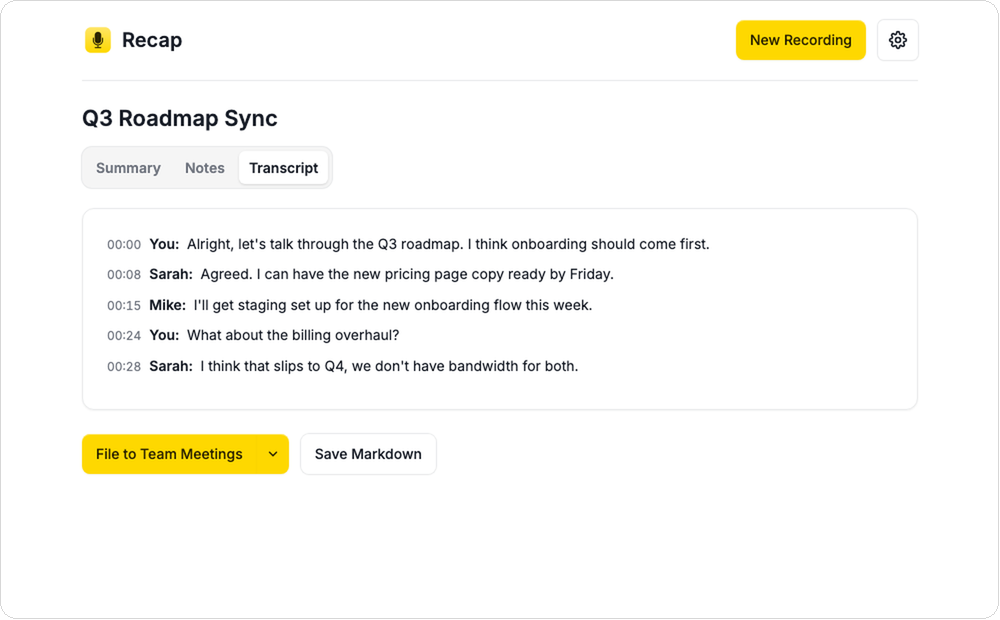
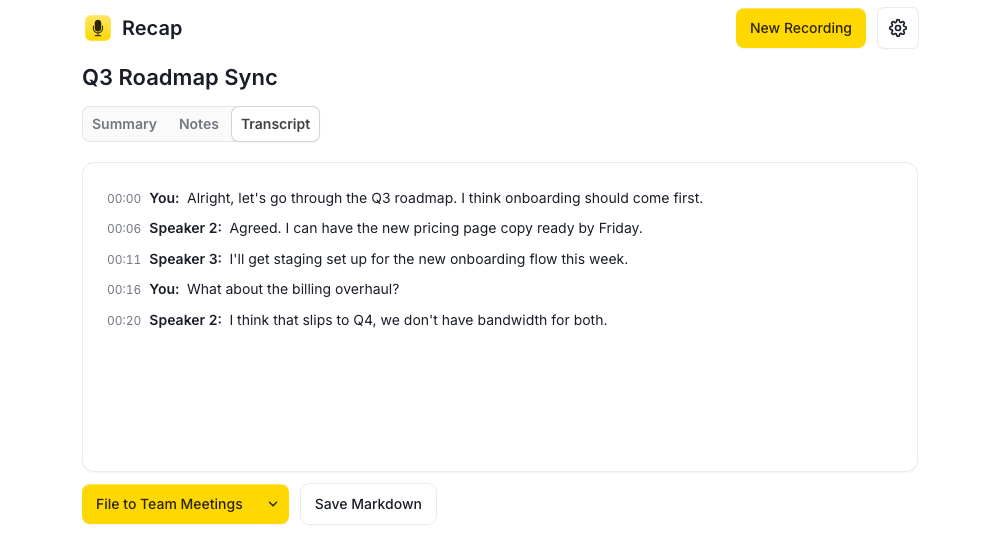
Rewrite the README and refresh every screenshot
Full pass to catch up with everything shipped since the last real
README update: the menu bar icon and background behavior, meeting
detection, the redesigned Settings sidebar, the transcription-ready
notification, and window position memory. Also removes the
~/Applications framing from the intro and Run section now that
Download lets people put the app wherever they want, and adds a
Feedback section pointing at GitHub issues for bugs and feature
requests.

New screenshots for all of it: Summary, Transcript, the recording
screen, and Settings' General tab. Generated by seeding the app's own
real rendering code with made-up meeting content through a headless
Chrome capture against the actual frontend, not mocked-up markup, so
every pixel is genuine app output. Speaker labels are left as
"Speaker 2"/"Speaker 3" rather than real names: the previous
transcript screenshot showed real names there, which the app has
never actually been able to produce (diarization only ever assigns
generic labels; real names only ever appear in the Claude-generated
summary and notes, never the transcript itself). Also removed every
em dash from the document, per a new standing preference.

diff --git a/README.md b/README.md
@@ -2,28 +2,37 @@
 
 I got tired of meeting-notes apps that want a monthly subscription just to
 ship my audio off to someone else's server. So this is the one I actually
-use: it's a real Mac app that lives in `~/Applications`, records your mic
-(and the other side of the call, if you want), transcribes everything
-on-device, and only sends the resulting text — never audio — up to Claude
-for the summary. Everything else stays on your laptop.
+use: a real Mac app that records your mic (and the other side of the call,
+if you want), transcribes everything on-device, and only sends the
+resulting text, never audio, up to Claude for the summary. Everything else
+stays on your laptop.
 
 When it's done, it can file the whole thing straight into Notion, formatted
-the way a real page should look — action items as checkboxes, real headings,
-a collapsible transcript — or just drop a Markdown file on your Desktop if
+the way a real page should look: action items as checkboxes, real headings,
+a collapsible transcript. Or just drop a Markdown file on your Desktop if
 you'd rather skip Notion entirely.
+
+Recap can also stay running quietly in your menu bar, and it can notice
+when you've joined a call in another app and offer to start recording for
+you.
 
 ![Summary view](assets/screenshot-summary.png)
 ![Transcript view with speaker labels](assets/screenshot-transcript.png)
+![The recording screen](assets/screenshot-recording.png)
+![Settings, General tab](assets/screenshot-settings.png)
 
-(Screenshots use placeholder content, not real meeting data — I'm not
-putting an actual meeting of mine in a public README.)
+(Screenshots use a made-up meeting, not a real one of mine. The speaker
+labels ("Speaker 2", "Speaker 3") are what the app actually produces on its
+own. Real names only show up in the summary and notes, and only when
+someone's real name genuinely gets said in the recording; see
+[Speaker labels](#speaker-labels) below.)
 
 ## Download
 
 The easiest way to get Recap: no Python, no Homebrew, no terminal.
 
-1. Grab `Recap.app.zip` from the [latest release](https://github.com/markbenivegna/recap/releases/latest), unzip it, and drag `Recap.app` into `~/Applications` (or wherever you keep apps).
-2. Right-click (or Control-click) it in Finder and choose **Open** once. Recap isn't notarized — that costs an Apple Developer account, and this is a free tool with no interest in that relationship with Apple — so macOS shows the normal "unidentified developer" warning any downloaded, non-App-Store app gets. That's the standard one-time step every Mac user has always dealt with, not a sign anything's wrong.
+1. Grab `Recap.app.zip` from the [latest release](https://github.com/markbenivegna/recap/releases/latest), unzip it, and put `Recap.app` wherever you keep apps.
+2. Right-click (or Control-click) it in Finder and choose **Open** once. Recap isn't notarized (that costs an Apple Developer account, and this is a free tool with no interest in that relationship with Apple), so macOS shows the normal "unidentified developer" warning any downloaded, non-App-Store app gets. That's the standard one-time step every Mac user has always dealt with, not a sign anything's wrong.
 3. Open it. See [Configure API keys](#configure-api-keys) below for what happens next.
 
 Prefer to build it yourself, or want to contribute? See [Build from source](#build-from-source).
@@ -32,27 +41,28 @@ Prefer to build it yourself, or want to contribute? See [Build from source](#bui
 
 However you got Recap, you'll need two keys:
 
-- **`ANTHROPIC_API_KEY`** — go to [console.anthropic.com](https://console.anthropic.com), sign in (this is a separate pay-as-you-go account from a claude.ai subscription), open **API Keys** in the left sidebar, click **Create Key**, and copy it. A typical meeting (transcription + summarization) costs a few cents.
-- **`NOTION_API_KEY`** — go to [notion.so/my-integrations](https://www.notion.so/my-integrations), click **New integration**, give it any name (e.g. "Recap"), and create it. Copy the **Internal Integration Secret** it shows you.
-  - **Then, separately**, in Notion itself: open every page or database you want to be able to file meeting notes into, click the **`...`** menu in the top right, go to **Connections**, and connect your new integration. Repeat for each page — pages not explicitly connected this way will never show up in the app's dropdown, even though the API key itself is valid.
+- **`ANTHROPIC_API_KEY`**: go to [console.anthropic.com](https://console.anthropic.com), sign in (this is a separate pay-as-you-go account from a claude.ai subscription), open **API Keys** in the left sidebar, click **Create Key**, and copy it. A typical meeting (transcription + summarization) costs a few cents.
+- **`NOTION_API_KEY`**: go to [notion.so/my-integrations](https://www.notion.so/my-integrations), click **New integration**, give it any name (e.g. "Recap"), and create it. Copy the **Internal Integration Secret** it shows you.
+  - **Then, separately**, in Notion itself: open every page or database you want to be able to file meeting notes into, click the **`...`** menu in the top right, go to **Connections**, and connect your new integration. Repeat for each page. Pages not explicitly connected this way will never show up in the app's dropdown, even though the API key itself is valid.
 
-The first time Recap opens with no key set, it automatically opens **Settings** (the ⚙ icon) for you to paste both keys in — no text editor, no `.env` required. You can also open Settings any time later to change them, the Whisper model size, vocabulary hints, or the system-audio output device.
+The first time Recap opens with no key set, it automatically opens **Settings** (the ⚙ icon) for you to paste both keys in. No text editor, no `.env` required. You can also open Settings any time later to change them, or anything else.
 
-Prefer editing a file directly instead? Recap keeps its own data — API keys, the downloaded diarization model, usage tracking — in `~/Library/Application Support/Recap/` (the standard macOS location for this, independent of wherever the app itself lives). Copy `.env.example` from this repo to `~/Library/Application Support/Recap/.env` and fill it in the same way — see the comments in `.env.example` for every available option, including `DIARIZATION_THRESHOLD` (not exposed in the Settings UI since it rarely needs changing).
+Prefer editing a file directly instead? Recap keeps its own data (API keys, the downloaded diarization model, usage tracking, window position) in `~/Library/Application Support/Recap/`, the standard macOS location for this, independent of wherever the app itself lives. Copy `.env.example` from this repo to `~/Library/Application Support/Recap/.env` and fill it in the same way; see the comments in `.env.example` for every available option, including `DIARIZATION_THRESHOLD` (not exposed in the Settings UI since it rarely needs changing).
 
 ### First launch
 
-- Clicking **Record** for the first time triggers a normal macOS microphone-permission prompt — click **Allow**.
-- The very first recording you transcribe will trigger a one-time download of the `faster-whisper` model (a few hundred MB for the default `small` size) and the speaker-diarization model (`speechbrain/spkrec-ecapa-voxceleb`, downloaded to `~/Library/Application Support/Recap/.cache/`) — expect that first transcription to take noticeably longer than later ones while those download. Everything after that runs fully offline.
+- Clicking **Record** for the first time triggers a normal macOS microphone-permission prompt. Click **Allow**.
+- The very first recording you transcribe will trigger a one-time download of the `faster-whisper` model (a few hundred MB for the default `small` size) and the speaker-diarization model (`speechbrain/spkrec-ecapa-voxceleb`, downloaded to `~/Library/Application Support/Recap/.cache/`). Expect that first transcription to take noticeably longer than later ones while those download. Everything after that runs fully offline.
+- You may also see a one-time system prompt asking whether Recap can send you notifications. Click **Allow** if you want the "meeting detected" and "your notes are ready" notifications described below; both features still work without it, you'll just miss the heads-up.
 
 ## Build from source
 
-For development or contributing — if you just want to use Recap, [Download](#download) above is much less work.
+For development or contributing. If you just want to use Recap, [Download](#download) above is much less work.
 
 ### 0. Prerequisites
 
-- **macOS**, Apple Silicon (arm64) — the build embeds an arm64-only Python runtime inside the app.
-- **Python 3.9+** — macOS ships one at `/usr/bin/python3`, or install one via [Homebrew](https://brew.sh) (`brew install python3`).
+- **macOS**, Apple Silicon (arm64). The build embeds an arm64-only Python runtime inside the app.
+- **Python 3.9+**: macOS ships one at `/usr/bin/python3`, or install one via [Homebrew](https://brew.sh) (`brew install python3`).
 - **[Homebrew](https://brew.sh)**, for the required system dependencies below.
 - **ffmpeg**, used to decode recorded audio before diarization:
   ```bash
@@ -74,7 +84,7 @@ pip install -r requirements.txt
 
 ### 2. Configure API keys
 
-See [Configure API keys](#configure-api-keys) above — same either way.
+See [Configure API keys](#configure-api-keys) above, same either way.
 
 ### 3. Build the app
 
@@ -82,22 +92,22 @@ See [Configure API keys](#configure-api-keys) above — same either way.
 ./scripts/build_app.sh
 ```
 
-This creates **Recap.app** in `~/Applications` with a custom icon — a one-time step that takes a minute or two, and a thin launcher that runs against this checkout's own venv (fast to rebuild, but only works on this machine). Open it from Finder or Launchpad from here on; no terminal needed after this point.
+This creates **Recap.app** in `~/Applications` with a custom icon, a one-time step that takes a minute or two, and a thin launcher that runs against this checkout's own venv (fast to rebuild, but only works on this machine). Open it from Finder or Launchpad from here on; no terminal needed after this point.
 
 ### 4. First launch
 
-Same as [First launch](#first-launch) above, plus the Gatekeeper step from [Download](#download) — `build_app.sh`'s output isn't code-signed either.
+Same as [First launch](#first-launch) above, plus the Gatekeeper step from [Download](#download): `build_app.sh`'s output isn't code-signed either.
 
 ### Cutting a real release (maintainers)
 
-`build_app.sh` above is a dev convenience — its output only runs on the machine it was built on (it points at that checkout's own venv, not a bundled copy of everything). A real, standalone, downloadable `Recap.app` — the one [Download](#download) points at — is built differently, via `scripts/recap.spec` (PyInstaller), and published automatically by [`.github/workflows/release.yml`](.github/workflows/release.yml) whenever a version tag is pushed:
+`build_app.sh` above is a dev convenience: its output only runs on the machine it was built on (it points at that checkout's own venv, not a bundled copy of everything). A real, standalone, downloadable `Recap.app`, the one [Download](#download) points at, is built differently, via `scripts/recap.spec` (PyInstaller), and published automatically by [`.github/workflows/release.yml`](.github/workflows/release.yml) whenever a version tag is pushed:
 
 ```bash
 git tag v1.0.0
 git push origin v1.0.0
 ```
 
-That's the whole release process — GitHub Actions builds it on a real macOS runner and publishes the result. To test that build locally instead (needs `pyinstaller` and `dylibbundler`: `pip install -r requirements-build.txt` and `brew install dylibbundler`):
+That's the whole release process. GitHub Actions builds it on a real macOS runner and publishes the result. To test that build locally instead (needs `pyinstaller` and `dylibbundler`: `pip install -r requirements-build.txt` and `brew install dylibbundler`):
 
 ```bash
 pyinstaller scripts/recap.spec --noconfirm --distpath dist --workpath build
@@ -106,7 +116,7 @@ scripts/bundle_ffmpeg.sh dist/Recap.app
 
 ## Run
 
-The normal way, day to day: open **Recap** from `~/Applications` (or Launchpad) like any other app.
+The normal way, day to day: open **Recap** from wherever you put it, or from Launchpad/Spotlight, like any other app.
 
 For debugging, you can also run it directly from a terminal:
 
@@ -116,27 +126,42 @@ python3 main.py          # standalone window
 python3 -m backend.app   # or: plain web app at http://127.0.0.1:5151
 ```
 
-If you ever move the project folder, or want to regenerate the icon, re-run `./scripts/build_app.sh` to rebuild the app bundle.
+If you're building from source and ever move the project folder, or want to regenerate the icon, re-run `./scripts/build_app.sh` to rebuild the app bundle.
 
 ## Flow
 
 Nothing surprising here, which is the point:
 
-1. Click **Record** (grants mic access) or **Upload audio** for an existing file.
-2. Stop the recording — it's transcribed locally, then summarized via Claude.
+1. Click **Record** (grants mic access) or **Upload audio** for an existing file. If meeting detection noticed you joined a call in another app first, you can start recording straight from that notification instead.
+2. Stop the recording. It's transcribed locally, then summarized via Claude. If Recap's window isn't in front when this finishes, you'll get a notification.
 3. Read the result across the **Summary**, **Notes**, and **Transcript** tabs.
-4. Either pick a destination from the Notion dropdown (populated live from your workspace) and click **File to Notion** to create a new page there, or click **Save Markdown** to save a `.md` file locally instead — no Notion required.
+4. Either pick a destination from the Notion dropdown (populated live from your workspace) and click **File to Notion** to create a new page there, or click **Save Markdown** to save a `.md` file locally instead. No Notion required.
 5. Click **New Recording** to clear the current result and start another one.
+
+## Running in the background
+
+Turn on **Menu bar icon** in Settings (General) and Recap keeps running after you close its window, showing a plain mic icon in your menu bar. Click it to show or hide the window. With this on, the window's close button hides Recap instead of quitting it; quit for real with Cmd+Q, or the Dock icon's right-click menu.
+
+Clicking Recap's Dock icon while the window is hidden brings it back too, same as any other Mac app.
+
+Turn the toggle off and Recap goes back to normal: closing the window quits the app, like before.
+
+## Meeting detection
+
+Also in Settings (General): **Detect meetings automatically**. With this on, Recap notices when another app on your Mac starts actively using your microphone (joining a Zoom or Google Meet call, for example) and sends a notification asking if you'd like to start recording, with a one-click **Start Recording** action right on the notification.
+
+This never auto-starts a recording on its own; it only asks. And Recap's own recording never triggers it; only some other app newly using the mic does.
 
 ## Notes
 
 - Recordings are transcribed then deleted from disk immediately after.
 - Only pages/databases explicitly shared with your Notion integration show up in the dropdown.
+- Recap remembers its window position and size across launches (falling back to centered if that spot isn't on a currently-connected screen anymore, e.g. after unplugging a monitor).
 - `WHISPER_MODEL_SIZE` in `.env` controls the local model (`small` by default; try `medium` for better accuracy or `base` for more speed).
 
 ## Why not just use [thing that already exists]
 
-Fair question — there's no shortage of "AI meeting notetaker" products, and
+Fair question. There's no shortage of "AI meeting notetaker" products, and
 some of them are good. A few reasons I ended up building my own instead:
 
 - I wanted the transcription actually local, not "we don't train on your
@@ -163,14 +188,14 @@ playing out of your speakers (e.g. the other person on a Zoom/Meet call):
 3. Set that Multi-Output Device as your system sound output (System Settings → Sound, or the menu bar volume icon).
 
 Once that's set up, the app automatically detects BlackHole and mixes it with
-your mic when you hit Record — no extra steps in the app itself. If BlackHole
+your mic when you hit Record. No extra steps in the app itself. If BlackHole
 isn't installed or isn't wired up yet, it just falls back to mic-only, same
 as before.
 
 ### Auto-switching to the recording device
 
 If you don't want your Multi-Output Device as your everyday sound output
-(most people don't — it complicates normal volume control), the app can
+(most people don't; it complicates normal volume control), the app can
 switch your system output to it automatically only while recording, and
 switch back to whatever you were using right after you hit Stop:
 
@@ -180,7 +205,7 @@ switch back to whatever you were using right after you hit Stop:
    ```
 2. Set `RECORDING_OUTPUT_DEVICE` in `.env` to the exact name of your
    Multi-Output Device (as it appears in Audio MIDI Setup / System Settings
-   → Sound) — rename it there to something memorable if you want.
+   → Sound); rename it there to something memorable if you want.
 
 With that set, hitting Record switches your output to that device, and
 Stop switches back to whatever was active before. If the tool isn't
@@ -189,12 +214,12 @@ this step is silently skipped and nothing about recording itself changes.
 
 If your speakers are connected over Bluetooth, macOS's Multi-Output Device
 handling of Bluetooth output is unreliable (a known OS-level limitation, not
-something this app or BlackHole can work around) — if you get silence after
+something this app or BlackHole can work around). If you get silence after
 setting this up, double check System Settings → Sound (or the menu bar) has
 the **Multi-Output Device** selected, not BlackHole directly (selecting
 BlackHole alone sends everything to a silent virtual sink). Also note that
 while a Multi-Output Device is your output, the normal volume keys/menu bar
-slider often stop reliably controlling your actual speakers — use the volume
+slider often stop reliably controlling your actual speakers; use the volume
 slider next to your speakers inside the Multi-Output Device panel in Audio
 MIDI Setup instead.
 
@@ -202,26 +227,36 @@ MIDI Setup instead.
 
 This was the hardest part to get right, honestly. Recordings are
 automatically split by speaker using a speaker-embedding
-model (`speechbrain/spkrec-ecapa-voxceleb` — an openly downloadable model, no
+model (`speechbrain/spkrec-ecapa-voxceleb`, an openly downloadable model, no
 account or sign-up needed, unlike some diarization tools). This runs locally
-alongside Whisper. When summarizing, Claude will use a speaker's real name in
-the summary/notes if it's clear from what's actually said in the
-conversation (e.g. someone being greeted or introduced by name); otherwise it
-keeps the generic label rather than guessing.
+alongside Whisper, and it's all the Transcript tab ever shows: generic
+labels like "Speaker 1" and "Speaker 2", not real names. It has no way to
+know anyone's actual name; it's only comparing voices.
+
+When summarizing, Claude will use a speaker's real name in the summary and
+notes if it's clear from what's actually said in the conversation (e.g.
+someone being greeted or introduced by name); otherwise it keeps the
+generic label rather than guessing. Real names never appear in the
+Transcript tab itself, only in the Summary and Notes Claude generates from
+it.
 
 When [system audio capture](#system-audio-hearing-both-sides-of-a-call) is
 active, the app records the mic and system audio as two extra, separate
 reference tracks (in addition to the main mixed recording used for
 transcription) so it can tell which source each moment of the transcript
 came from directly, by comparing loudness, rather than relying purely on
-voice similarity — which struggles when two voices happen to sound alike.
+voice similarity, which struggles when two voices happen to sound alike.
 The dominant voice on the mic is labeled **"You"**; every other distinct
-voice — whether an extra voice sharing the mic (e.g. an in-person guest) or
-any number of voices coming through system audio — gets a normal "Speaker N"
+voice, whether an extra voice sharing the mic (e.g. an in-person guest) or
+any number of voices coming through system audio, gets a normal "Speaker N"
 label. Without system audio capture active, it falls back to
 voice-embedding clustering alone across the whole recording, same as before.
 
 `DIARIZATION_THRESHOLD` in `.env` controls how aggressively segments are
-split into different speakers vs. merged together — see `.env.example` for
+split into different speakers vs. merged together; see `.env.example` for
 details. The embedding model downloads once (to
 `~/Library/Application Support/Recap/.cache/`) on first use.
+
+## Feedback
+
+Found a bug, or want to see a feature that's not here yet? [Open an issue](https://github.com/markbenivegna/recap/issues). That's the best way to reach me about either.
